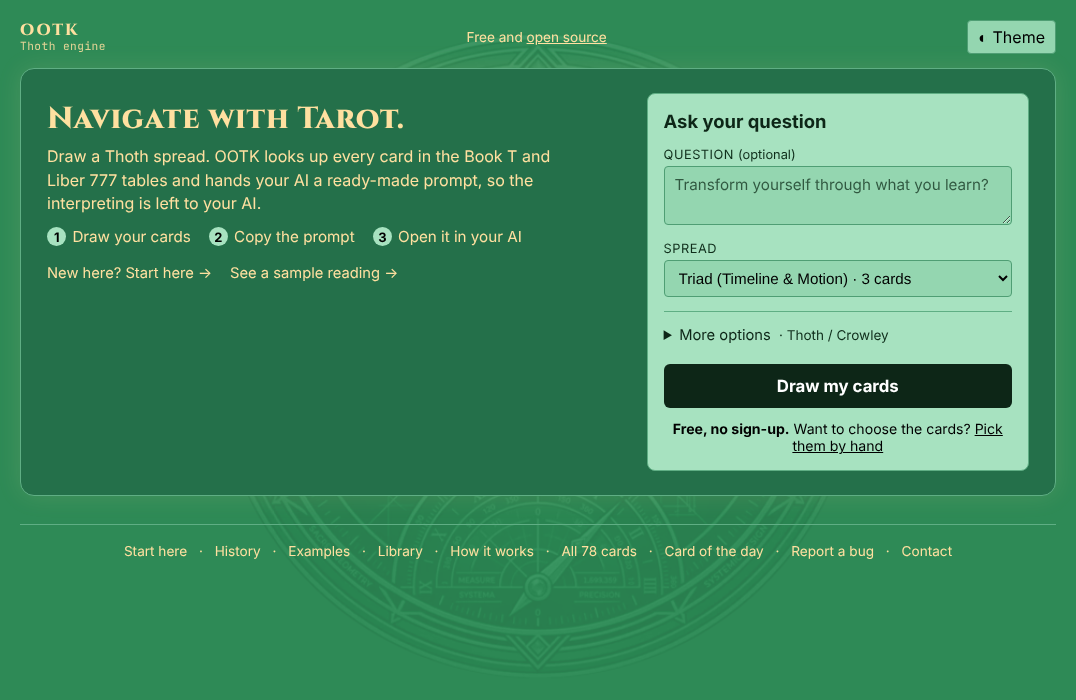
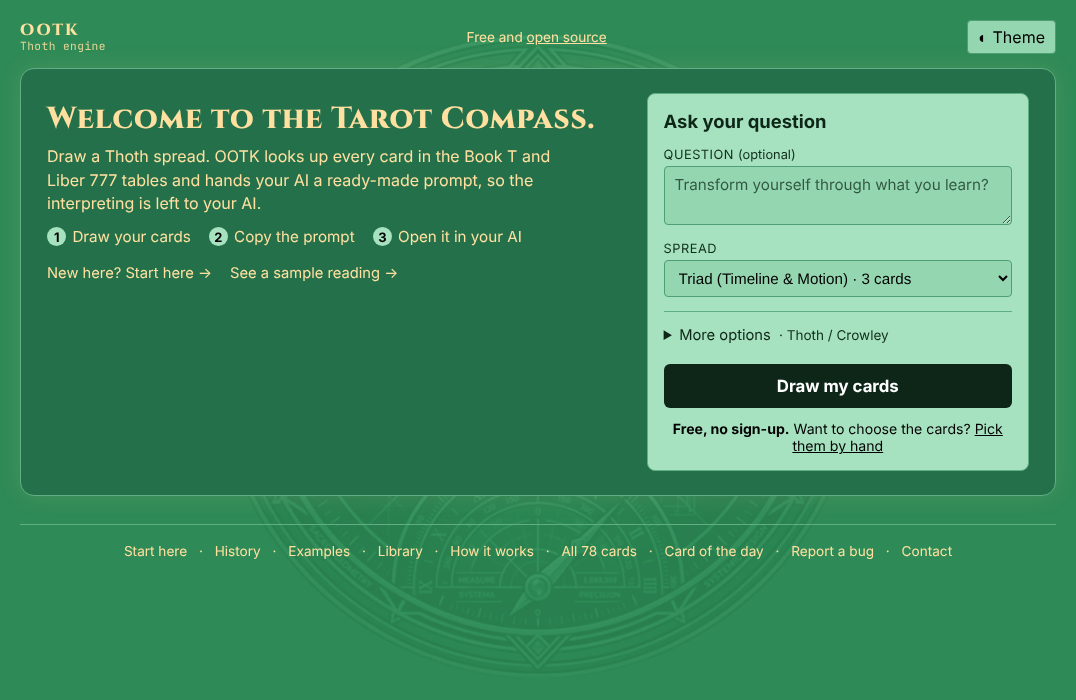
Link preview, page title and README screenshot: Welcome to the Tarot Compass.
The preview title now shrinks to fit beside the cards when it is long.

Claude-Session: https://claude.ai/code/session_01QL4GPGwdgTs1jPEh8cCMYj

Changed region(s): [[0.0307, 0.15, 0.552, 0.18]]

diff --git a/templates/_head_meta.html b/templates/_head_meta.html
@@ -10,15 +10,15 @@
 {%- endif %}
     <meta property="og:type" content="website">
     <meta property="og:site_name" content="LLM Tarot Reading">
-    <meta property="og:title" content="{{ page_title | default('Navigate with Tarot.') }}">
+    <meta property="og:title" content="{{ page_title | default('Welcome to the Tarot Compass.') }}">
     <meta property="og:description" content="{{ page_description | default(site_description) }}">
     <meta property="og:url" content="{{ site_url(request) }}{{ request.url.path }}">
     <meta property="og:image" content="{{ site_url(request) }}/static/site/og-image.jpg">
     <meta property="og:image:width" content="1200">
     <meta property="og:image:height" content="630">
-    <meta property="og:image:alt" content="The headline Navigate with Tarot. beside The Fool, The Star and The Sun from the 1909 Rider-Waite-Smith deck">
+    <meta property="og:image:alt" content="The headline Welcome to the Tarot Compass. beside The Fool, The Star and The Sun from the 1909 Rider-Waite-Smith deck">
     <meta name="twitter:card" content="summary_large_image">
-    <meta name="twitter:title" content="{{ page_title | default('Navigate with Tarot.') }}">
+    <meta name="twitter:title" content="{{ page_title | default('Welcome to the Tarot Compass.') }}">
     <meta name="twitter:description" content="{{ page_description | default(site_description) }}">
     <meta name="twitter:image" content="{{ site_url(request) }}/static/site/og-image.jpg">
 {#- Shared <head> tags: icons, the search description and link previews (Open Graph and Twitter).

diff --git a/scripts/make_site_images.py b/scripts/make_site_images.py
@@ -26,7 +26,7 @@ BEIGE = (244, 236, 220)     # #f4ecdc, the favicon's card
 GREEN = (46, 138, 86)       # #2e8a56, the page background
 DEEP_GREEN = (24, 82, 50)   # the darker end of the preview's gradient
 CREAM = (255, 224, 160)     # #ffe0a0, text directly on green
-TITLE = ["Navigate", "with Tarot."]
+TITLE = ["Welcome to the", "Tarot Compass."]
 TAGLINE = "Draw a spread. Get every card, dignity and decan worked out. Your AI interprets it."
 FOOTER = "tarotthoth.com · free and open source"
 PREVIEW_CARDS = ["0---the-fool.webp", "xvii---the-star.webp", "xix---the-sun.webp"]
@@ -125,9 +125,12 @@ def preview():
         with_shadow(im, rotated, x, y)
 
     d = ImageDraw.Draw(im)
-    title_font = font("serif", 76, 700)
+    size = 76                                       # shrink a long title so it clears the cards
+    while size > 40 and max(d.textlength(line, font=font("serif", size, 700)) for line in TITLE) > 530:
+        size -= 2
+    title_font = font("serif", size, 700)
     for k, line in enumerate(TITLE):
-        d.text((70, 125 + 87 * k), line, font=title_font, fill=CREAM)
+        d.text((70, 125 + round(size * 1.15) * k), line, font=title_font, fill=CREAM)
     sub_font = font("sans", 30)
     y = 345
     for line in wrap(d, TAGLINE, sub_font, 500):

diff --git a/README.md b/README.md
@@ -6,7 +6,7 @@
 
 **Try it online: [tarotthoth.com](https://tarotthoth.com)** (free hosting, so the first visit after a quiet spell takes about a minute to wake up). Card images there are Pamela Colman Smith's public-domain 1909 Rider-Waite-Smith art, because the Thoth paintings are copyrighted.
 
-![The start page: the headline "Navigate with Tarot.", the three steps (draw your cards, copy the prompt, open it in your AI) and the "Ask your question" panel with its Draw my cards button](docs/images/front.png)
+![The start page: the headline "Welcome to the Tarot Compass.", the three steps (draw your cards, copy the prompt, open it in your AI) and the "Ask your question" panel with its Draw my cards button](docs/images/front.png)
 
 It places the Hebrew letters and the Platonic solids in three-dimensional space with two models: the **Cube of Space** from the Sefer Yetzirah (three mother letters as axes, seven doubles as faces and centre, twelve simples as edges) and **polyhedral dual inversions** (each card's solid and its dual; the cube's dual octahedron has its six corners on the Cube of Space's six directions). The [Method page](https://tarotthoth.com/method#space) explains both and [/maps](https://tarotthoth.com/maps) draws them.
 
